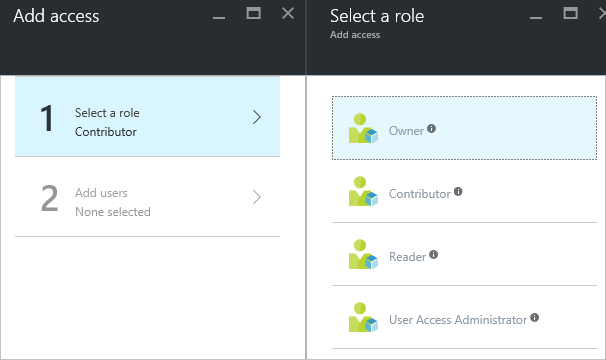
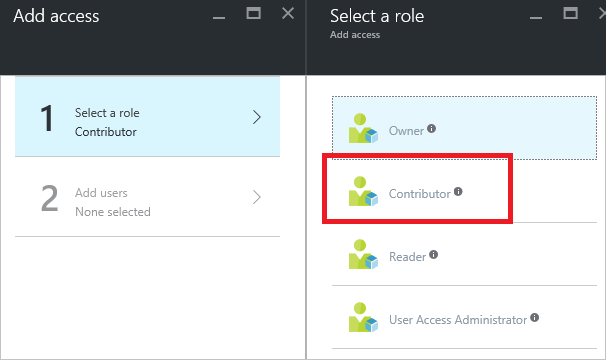
revising dashboard steps

Changed region(s): [[0.505, 0.4278, 0.8614, 0.6417]]

diff --git a/articles/azure-portal/azure-portal-dashboard-share-access.md b/articles/azure-portal/azure-portal-dashboard-share-access.md
@@ -18,17 +18,29 @@
 
 # Sharing Azure dashboards
 
-After configuring a dashboard, you can publish it and share it with other users in your organization. You permit others to access your dashboard by using Azure [Role Based Access Control](../active-directory/role-based-access-control-configure.md). All published dashboards are implemented as Azure resources, which means they exist as manageable items within your subscription and are contained in a resource group.  From an access control perspective, dashboards are no different than other resources, such as a virtual machine or a storage account.
+After configuring a dashboard, you can publish it and share it with other users in your organization. You permit others to access your dashboard by using Azure [Role Based Access Control](../active-directory/role-based-access-control-configure.md). You assign a user or group of users to a role, and that role defines how much control those users will have for the published dashboard. 
 
-Here is an example.  Let's say you have an Azure subscription and various members of your team have been assigned the roles of **owner**, **contributor**, or **reader** of the subscription. That permission level is inherited by resources in the subscription.  Users who are owners or contributors are able to list, view, create, modify, or delete dashboards within the subscription.  Users who are readers are able to list and view dashboards, but cannot modify or delete them.  Users with reader access are able to make local edits to a published dashboard (e.g. when troubleshooting an issue), but are not able to publish those changes back to the server.  They will have the option to make a private copy of the dashboard for themselves
-
-However, you could also assign permissions to the resource group that contains several dashboards or to an individual dashboard. For example, you may decide that a group of users should have access to a particular dashboard but you do not want to assign those permissions across the subscription. You specify a unique set of permissions for that dashboard. 
+All published dashboards are implemented as Azure resources, which means they exist as manageable items within your subscription and are contained in a resource group.  From an access control perspective, dashboards are no different than other resources, such as a virtual machine or a storage account.
 
 > [AZURE.TIP] Individual tiles on the dashboard enforce their own access control requirements based on the resources they display.  Therefore, you can design a dashboard that is shared broadly while still protecting the data on individual tiles.
 
+## Understanding access control for dashboards
+
+You can assign access at three levels:
+
+- subscription
+- resource group
+- resource
+
+The permissions you assign are inherited from subscription down to the resource. Therefore, you may already have users assigned to roles for the subscription which also work for the published dashboard. 
+
+Here is an example.  Let's say you have an Azure subscription and various members of your team have been assigned the roles of **owner**, **contributor**, or **reader** of the subscription. Users who are owners or contributors are able to list, view, create, modify, or delete dashboards within the subscription.  Users who are readers are able to list and view dashboards, but cannot modify or delete them.  Users with reader access are able to make local edits to a published dashboard (such as, when troubleshooting an issue), but are not able to publish those changes back to the server.  They will have the option to make a private copy of the dashboard for themselves
+
+However, you could also assign permissions to the resource group that contains several dashboards or to an individual dashboard. For example, you may decide that a group of users should have limited permissions across the subscription but greater access to a particular dashboard. You assign those users to a role for that dashboard. 
+
 ## Assign access to a dashboard
 
-Let's suppose you have finished configuring a dashboard that you want to share with users in your subscription. Now, you want to share it with other users in your organization.
+Let's suppose you have finished configuring a dashboard that you want to share with a group of users in your subscription. The steps below depict a customized group called Storage Managers, but you can name your group whatever you would like. For information about creating an Active Directory group and adding users to that group, see [Managing groups in Azure Active Directory](../active-directory/active-directory-accessmanagement-manage-groups.md).
 
 1. Select **Share**.
 
@@ -38,22 +50,29 @@ Let's suppose you have finished configuring a dashboard that you want to share w
 
      ![publish](./media/azure-portal-dashboard-share-access/publish.png)
 
-Your dashboard is now published. If you are fine with the permissions inherited from the subscription, you do not need to do anything more. Other users in your organization will be able to access and modify the dashboard based on their subscription level role. However, for this tutorial, let's assign access to a group.
+Your dashboard is now published. If the permissions inherited from the subscription are suitable, you do not need to do anything more. Other users in your organization will be able to access and modify the dashboard based on their subscription level role. However, for this tutorial, let's assign a group of users to a role for that dashboard.
 
 1. Select **Manage users**.
 
      ![manage users](./media/azure-portal-dashboard-share-access/manage-users.png)
 
-2. You will see a list of existing users that already are assigned a role for this dashboard. Most likely, this assignment is inherited from the subscription. To add a new user or group, select **Add**.
+2. You will see a list of existing users that already are assigned a role for this dashboard. Your list of existing users will be different than the image below. Most likely, the assignments are inherited from the subscription. To add a new user or group, select **Add**.
 
      ![add user](./media/azure-portal-dashboard-share-access/existing-users.png)
 
-3. Select the role that represents the permissions you would like to grant.
+3. Select the role that represents the permissions you would like to grant. For this example, select **Contributor**.
 
      ![select role](./media/azure-portal-dashboard-share-access/select-role.png)
 
-4. Select the user or group that you wish to assign to the role. If you do not see the user or group you are looking for in the list, use the search box. 
+4. Select the user or group that you wish to assign to the role. If you do not see the user or group you are looking for in the list, use the search box. Your list of available groups will depend on the groups you have created in your Active Directory.
 
      ![select user](./media/azure-portal-dashboard-share-access/select-user.png) 
 
 5. When you have finished adding users or groups, select **OK**. The new assignment is added to the list of users. Notice that its **Access** is listed as **Assigned** rather than **Inherited**.
+
+     ![assigned roles](./media/azure-portal-dashboard-share-access/assigned-roles.png)
+
+## Next steps
+
+- For a list of roles, see [RBAC: Built-in roles](../active-directory/role-based-access-built-in-roles.md).
+- To learn about managing resources, see [Manage Azure resources through portal](resource-group-portal.md).
